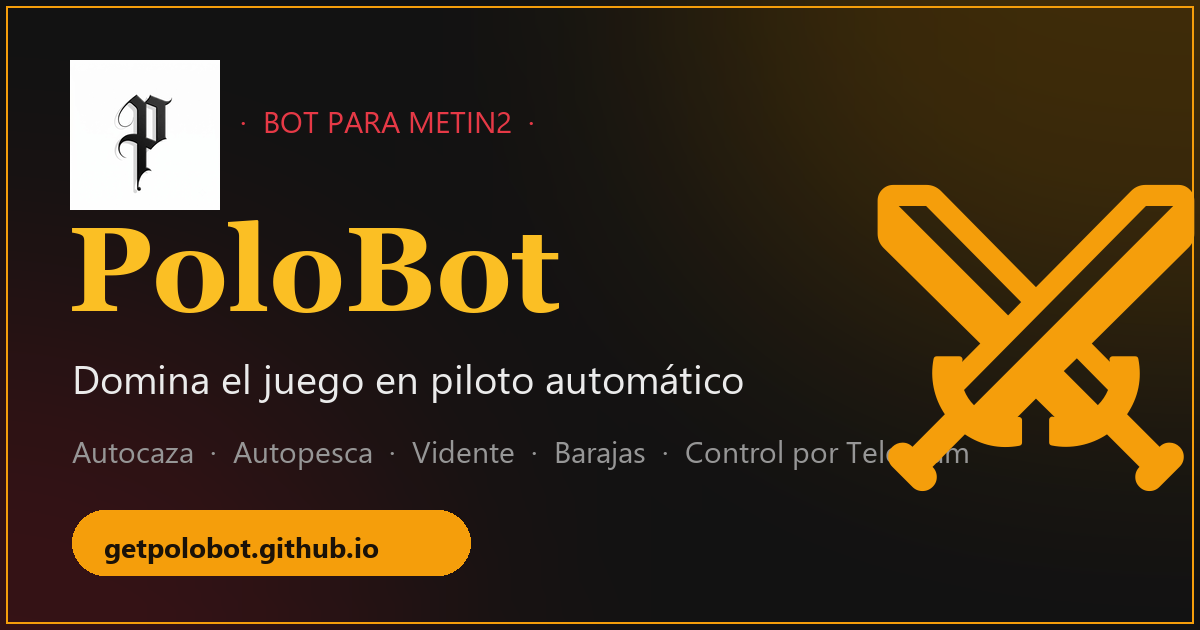
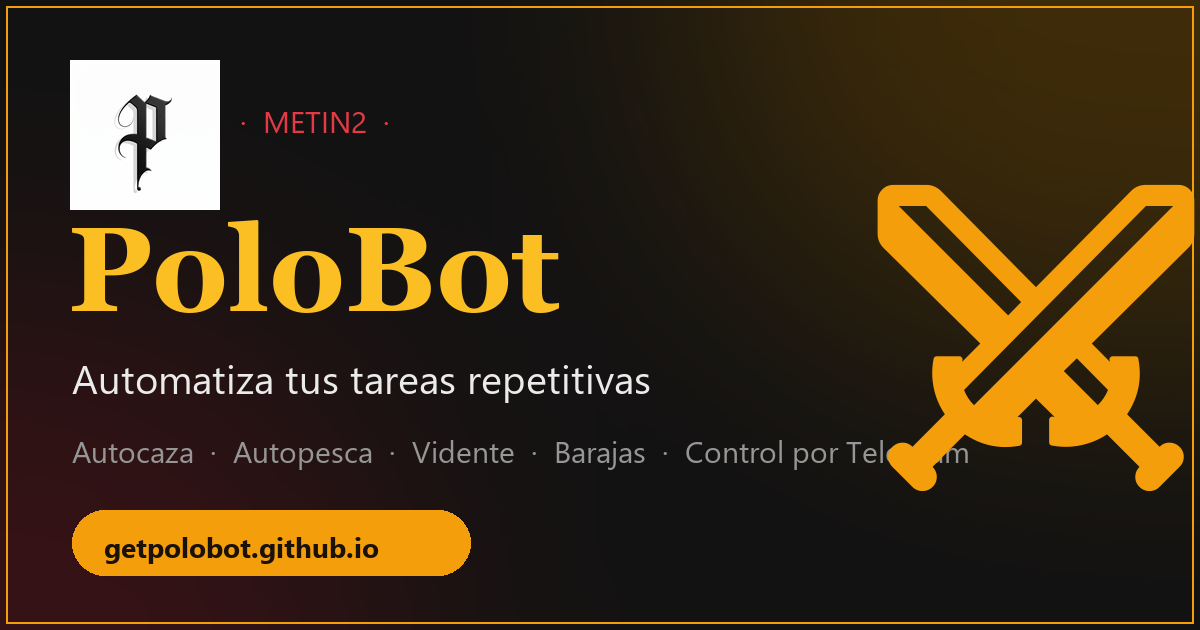
OG: quitar palabra 'bot' de textos visibles, enfoque en automatizacion

Changed region(s): [[0.0617, 0.573, 0.6167, 0.6333], [0.2158, 0.181, 0.4317, 0.2111]]

diff --git a/index.html b/index.html
@@ -5,8 +5,8 @@
 <meta name="viewport" content="width=device-width, initial-scale=1.0">
 
 <!-- ═══ SEO ═══ -->
-<title>PoloBot — Bot para Metin2: Autocaza, Pesca, Vidente y más</title>
-<meta name="description" content="PoloBot: el arsenal de automatización definitivo para Metin2. Autocaza, autopesca, vidente, barajas y control desde Telegram, en piloto automático. Multi-cuenta y con prueba gratis.">
+<title>PoloBot — Automatiza tus tareas en Metin2: caza, pesca y más</title>
+<meta name="description" content="PoloBot automatiza las tareas repetitivas de Metin2: caza, pesca, vidente, barajas y control desde Telegram, en piloto automático. Multi-cuenta y con prueba gratis.">
 <meta name="keywords" content="bot metin2, autocaza metin2, autopesca metin2, bot pesca metin2, bot vidente metin2, automatizacion metin2, bot farmeo metin2, bot metin2 multicuenta, polobot">
 <meta name="author" content="PoloBot">
 <meta name="robots" content="index, follow">
@@ -18,8 +18,8 @@
 <meta property="og:type" content="website">
 <meta property="og:url" content="https://getpolobot.github.io/">
 <meta property="og:site_name" content="PoloBot">
-<meta property="og:title" content="PoloBot — Bot para Metin2 en piloto automático">
-<meta property="og:description" content="Caza, pesca, recolecta y farmea por ti — en una o varias cuentas a la vez, y lo controlas hasta desde tu celular por Telegram. Prueba gratis.">
+<meta property="og:title" content="PoloBot — Automatización para Metin2">
+<meta property="og:description" content="Automatiza tus tareas repetitivas: caza, pesca, recolecta y farmea por ti — en una o varias cuentas a la vez, y lo controlas hasta desde tu celular por Telegram. Prueba gratis.">
 <meta property="og:image" content="https://getpolobot.github.io/og-image.png">
 <meta property="og:image:width" content="1200">
 <meta property="og:image:height" content="630">
@@ -27,8 +27,8 @@
 
 <!-- ═══ Twitter Card ═══ -->
 <meta name="twitter:card" content="summary_large_image">
-<meta name="twitter:title" content="PoloBot — Bot para Metin2 en piloto automático">
-<meta name="twitter:description" content="Autocaza, autopesca, vidente, barajas y control por Telegram. Multi-cuenta y con prueba gratis.">
+<meta name="twitter:title" content="PoloBot — Automatización para Metin2">
+<meta name="twitter:description" content="Automatiza tus tareas: autocaza, autopesca, vidente, barajas y control por Telegram. Multi-cuenta y con prueba gratis.">
 <meta name="twitter:image" content="https://getpolobot.github.io/og-image.png">
 <link rel="preconnect" href="https://fonts.googleapis.com">
 <link rel="preconnect" href="https://fonts.gstatic.com" crossorigin>